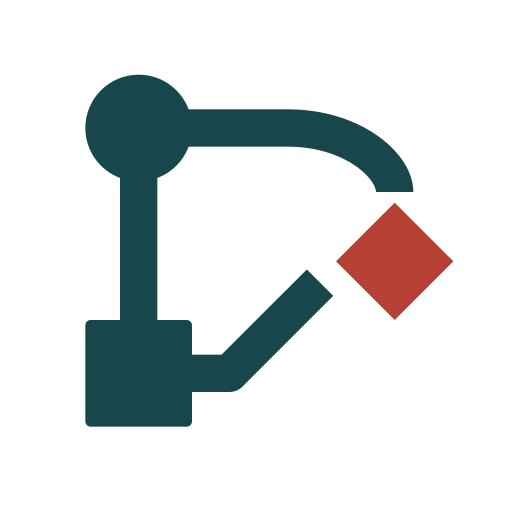
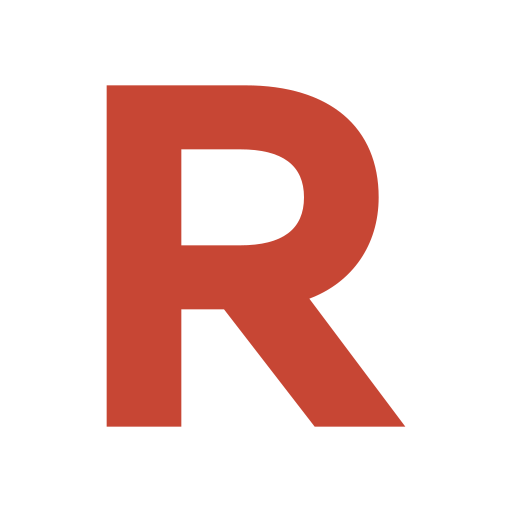
Replace rejected emblem with refined red and charcoal RBD wordmark

diff --git a/docs/assets/style.css b/docs/assets/style.css
@@ -28,7 +28,7 @@ main p, .topics li, .biography { overflow-wrap: break-word; }
 .header-inner { display: flex; align-items: center; justify-content: space-between; gap: 25px; min-height: 72px; }
 .brand { display: flex; align-items: center; gap: 10px; min-height: 44px; color: var(--ink); flex-shrink: 0; font-size: 19px; font-weight: 450; letter-spacing: 0; }
 .brand:hover { text-decoration: none; }
-.brand img { width: 148px; height: auto; }
+.brand img { width: 120px; height: auto; }
 #main-nav { display: flex; align-items: center; gap: 27px; }
 #main-nav a { display: inline-flex; justify-content: center; align-items: center; min-width: 44px; min-height: 44px; color: #45403b; font-size: 14px; white-space: nowrap; padding: 23px 0; }
 #main-nav a:hover { color: var(--link); }
@@ -115,7 +115,7 @@ h3 { font-size: 20px; line-height: 1.4; font-weight: 600; color: var(--ink); }
   html { scroll-padding-top: 130px; }
   .header-inner { flex-direction: column; gap: 0; padding-top: 11px; }
   .brand { font-size: 18px; }
-  .brand img { width: 140px; }
+  .brand img { width: 110px; }
   #main-nav { width: 100%; justify-content: space-between; gap: 12px; }
   #main-nav a { padding: 13px 0 16px; }
   .masthead .container { padding-block: 36px 38px; }

diff --git a/src/style.css b/src/style.css
@@ -28,7 +28,7 @@ main p, .topics li, .biography { overflow-wrap: break-word; }
 .header-inner { display: flex; align-items: center; justify-content: space-between; gap: 25px; min-height: 72px; }
 .brand { display: flex; align-items: center; gap: 10px; min-height: 44px; color: var(--ink); flex-shrink: 0; font-size: 19px; font-weight: 450; letter-spacing: 0; }
 .brand:hover { text-decoration: none; }
-.brand img { width: 148px; height: auto; }
+.brand img { width: 120px; height: auto; }
 #main-nav { display: flex; align-items: center; gap: 27px; }
 #main-nav a { display: inline-flex; justify-content: center; align-items: center; min-width: 44px; min-height: 44px; color: #45403b; font-size: 14px; white-space: nowrap; padding: 23px 0; }
 #main-nav a:hover { color: var(--link); }
@@ -115,7 +115,7 @@ h3 { font-size: 20px; line-height: 1.4; font-weight: 600; color: var(--ink); }
   html { scroll-padding-top: 130px; }
   .header-inner { flex-direction: column; gap: 0; padding-top: 11px; }
   .brand { font-size: 18px; }
-  .brand img { width: 140px; }
+  .brand img { width: 110px; }
   #main-nav { width: 100%; justify-content: space-between; gap: 12px; }
   #main-nav a { padding: 13px 0 16px; }
   .masthead .container { padding-block: 36px 38px; }

diff --git a/docs/index.html b/docs/index.html
@@ -35,7 +35,7 @@
   <a class="skip-link" href="#main">Skip to content</a>
   <header class="site-header">
     <div class="header-inner container">
-      <a class="brand" href="#home" aria-label="RBD workshop home" translate="no"><img src="assets/rbd-mark.svg" width="280" height="80" alt="RBD"><span>2027</span></a>
+      <a class="brand" href="#home" aria-label="RBD workshop home" translate="no"><img src="assets/rbd-mark.svg" width="200" height="76" alt="RBD"><span>2027</span></a>
       <nav id="main-nav" aria-label="Main navigation">
         <a href="#about">Overview</a><a href="#cfp">Call for Papers</a><a href="#dates">Dates</a><a href="#speakers">Speakers</a><a href="#program">Program</a><a href="#organizers">Organizers</a>
       </nav>

diff --git a/src/index.html b/src/index.html
@@ -35,7 +35,7 @@
   <a class="skip-link" href="#main">Skip to content</a>
   <header class="site-header">
     <div class="header-inner container">
-      <a class="brand" href="#home" aria-label="RBD workshop home" translate="no"><img src="assets/rbd-mark.svg" width="280" height="80" alt="RBD"><span>2027</span></a>
+      <a class="brand" href="#home" aria-label="RBD workshop home" translate="no"><img src="assets/rbd-mark.svg" width="200" height="76" alt="RBD"><span>2027</span></a>
       <nav id="main-nav" aria-label="Main navigation">
         <a href="#about">Overview</a><a href="#cfp">Call for Papers</a><a href="#dates">Dates</a><a href="#speakers">Speakers</a><a href="#program">Program</a><a href="#organizers">Organizers</a>
       </nav>

diff --git a/README.md b/README.md
@@ -35,7 +35,7 @@ The natural search focus is the workshop's full name, **RBD at NAACL 2027**, and
 
 - Set `siteUrl`, `seoTitle`, and `description` in `content/workshop.json`. The current canonical target is `https://rbd-workshop.github.io/`; its ownership and public deployment must be confirmed before launch. All search URLs derive from this setting.
 - Update `lastUpdated` only when the page's content changes materially, using the actual date. The build does not silently advance it. This date is metadata and does not add another year to the visible footer.
-- The sharing image is `src/assets/rbd-social.png`, with its editable vector source beside it. Update both when the branding changes. The PNG is approximately 65 KB, including the official NAACL 2027 logo.
+- The sharing image is `src/assets/rbd-social.png`, with its editable vector source beside it. Update both when the branding changes. The PNG is approximately 64 KB, including the official NAACL 2027 logo.
 - No `Event` markup is emitted while the actual workshop day and venue are unconfirmed. Add it after those details are visible and final; never substitute the parent conference dates.
 - `llms.txt` is an optional navigation summary, not a ranking mechanism. Keep its draft-status text current as the CFP is finalized. [Google's guidance](https://developers.google.com/search/docs/fundamentals/ai-optimization-guide) says normal SEO practices apply to AI search and that Google does not use `llms.txt`.
 - The local preview sends an `X-Robots-Tag: noindex, nofollow` header. This protects local previews and is not part of the static GitHub Pages output. The generated production homepage permits indexing. After deployment, check the actual public response for accidental `noindex` directives.
@@ -64,9 +64,9 @@ Set `submissionUrl` to the confirmed HTTPS portal to show a working submit butto
 
 ## Identity and assets
 
-The RBD identity pairs original vector letterforms with a compact capability-retrieval emblem: distinct resource shapes connect along a route, with the selected resource highlighted in red. The emblem and letters use deep teal `#17474b`; the selected diamond uses muted red `#b64034`. The site keeps dark neutral text `#312d2a`, accessible link red `#9e392c`, and a white background. Native sans-serif fonts make no third-party font requests.
+The RBD identity is a compact typographic wordmark. It retains the red R (`#c74634`) and uses revised B and D letterforms in charcoal (`#2c3035`), with consistent stroke weights, rounded bowls, and balanced spacing. The site keeps dark neutral text `#312d2a`, accessible link red `#9e392c`, and a white background. Native sans-serif fonts make no third-party font requests.
 
-`src/assets/rbd-emblem.svg` is the standalone symbol, `rbd-mark.svg` combines it with RBD for the header, and `rbd-logo.svg` includes the full workshop name. `rbd-logo.png` is the transparent 1200 × 460 export. The favicon, square icon, and sharing card use the same identity. Built-in image generation supplied an initial concept, which was redrawn as simple SVG paths for crisp rendering at small sizes. The unmodified generated concept remains in the task's `work/branding/rbd-retrieval-concept.png`; [research/branding-prompt.txt](research/branding-prompt.txt) records the exact prompt and final implementation.
+`src/assets/rbd-mark.svg` is the header wordmark, and `rbd-logo.svg` includes the full workshop name. `rbd-logo.png` is the transparent 1200 × 460 export. The favicon and square icon use the red R; the sharing card uses the complete RBD wordmark. The earlier generated connected-shapes emblem was rejected by the user and removed from the site. Its exploration record remains in [research/branding-prompt.txt](research/branding-prompt.txt) for provenance only.
 
 Speaker and organizer portraits and the San Francisco banner are hosted locally as optimized WebP files. Sources and credits are recorded in [ASSET_CREDITS.md](ASSET_CREDITS.md), without a visible photo-credit line in the footer.
 
@@ -76,7 +76,7 @@ The official NAACL 2027 San Francisco logo is displayed in the parent-conference
 
 The October 26, 2026 UI pass applied [Anthropic's Frontend Design skill](https://github.com/anthropics/claude-code/tree/main/plugins/frontend-design/skills/frontend-design) and [Vercel's Web Design Guidelines skill](https://github.com/vercel-labs/agent-skills/tree/main/skills/web-design-guidelines), with the current [interface rules](https://github.com/vercel-labs/web-interface-guidelines/blob/main/command.md). Both skills were installed in the user's local Codex skill library. Findings and resolutions are recorded in [research/ui-review.csv](research/ui-review.csv).
 
-The direction remains a conventional academic workshop site: left-aligned research content, visible section navigation, substantial biographies, and the Golden Gate Bridge as the main visual. The updated RBD emblem and teal wordmark sit within a white and dark neutral page palette; the official NAACL artwork remains unchanged. Native sans-serif type is intentional for familiar conference-page reading and fast loading. Main copy is 16px; biographies are 15px; supporting information is 13–14px. Longer prose has a 76ch maximum measure where space allows.
+The direction remains a conventional academic workshop site: left-aligned research content, visible section navigation, substantial biographies, and the Golden Gate Bridge as the main visual. The red and charcoal RBD wordmark sits within a white and dark neutral page palette; the official NAACL artwork remains unchanged. Native sans-serif type is intentional for familiar conference-page reading and fast loading. Main copy is 16px; biographies are 15px; supporting information is 13–14px. Longer prose has a 76ch maximum measure where space allows.
 
 ```text
 Desktop                           Phone

diff --git a/ASSET_CREDITS.md b/ASSET_CREDITS.md
@@ -10,9 +10,9 @@ Public sources were consulted on October 26, 2026. Zifei Wang’s photograph was
 | `src/assets/people/scott-yih.webp` | [Personal website](https://scottyih.org/), [portrait](https://scottyih.org/images/Scott%20Yih_FB%20Small.jpg) | Portrait from Scott Wen-tau Yih's personal research page. |
 | `src/assets/people/jimmy-lin.webp` | [University of Waterloo homepage](https://cs.uwaterloo.ca/~jimmylin/), [portrait](https://cs.uwaterloo.ca/~jimmylin/images/lin-fullres-cropped-scaled640.jpg) | Portrait from Jimmy Lin's university homepage. |
 
-Speaker and organizer entries link to public profiles where available. The original RBD vector letterforms, favicon, and wordmark were created for RBD and contain no third-party marks. The updated capability-retrieval emblem uses an original built-in ImageGen concept, manually recreated as flat SVG paths with deep teal modules and a selected red diamond. The initial generated PNG is retained unchanged in the task's `work/branding/rbd-retrieval-concept.png`; the final website uses SVG and raster exports of those vectors. See [the exact prompt and implementation record](research/branding-prompt.txt). No ICLR or ACM logo is copied into the site.
+Speaker and organizer entries link to public profiles where available. The original RBD vector letterforms, favicon, and wordmark were created for RBD and contain no third-party marks. The current design retains the red R and refines the B and D in charcoal. The earlier ImageGen concept and its connected-shapes SVG interpretation were rejected and removed from the active identity; their [exploration record](research/branding-prompt.txt) is retained for provenance. No ICLR or ACM logo is copied into the site.
 
-The original social sharing card, `src/assets/rbd-social.svg` and its 1200 × 630 PNG export, uses the current RBD emblem, letterforms, colors, and workshop information. It was created October 26, 2026 for Open Graph and large-image social previews. The official NAACL 2027 conference logo appears at the top right.
+The original social sharing card, `src/assets/rbd-social.svg` and its 1200 × 630 PNG export, uses the current RBD letterforms, colors, and workshop information. It was created October 26, 2026 for Open Graph and large-image social previews. The official NAACL 2027 conference logo appears at the top right.
 
 `src/assets/naacl-2027-logo.png` is the unmodified 921 × 200 logo served by the [official NAACL 2027 website](https://2027.naacl.org/) at [this source URL](https://2027.naacl.org/assets/images/logos/acl-logo.png), retrieved October 26, 2026. It is displayed proportionally in the parent-conference details and embedded in the social sharing SVG and PNG. The conference mark belongs to its respective owner; it is not original RBD artwork.
 
